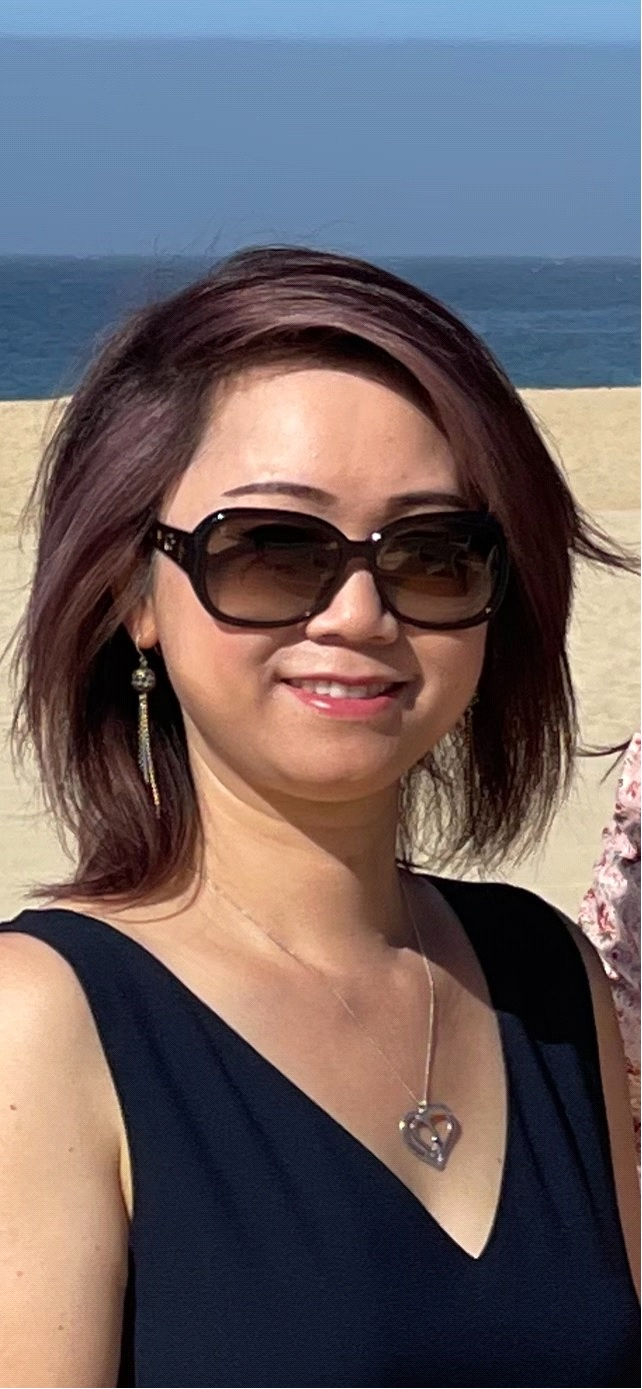
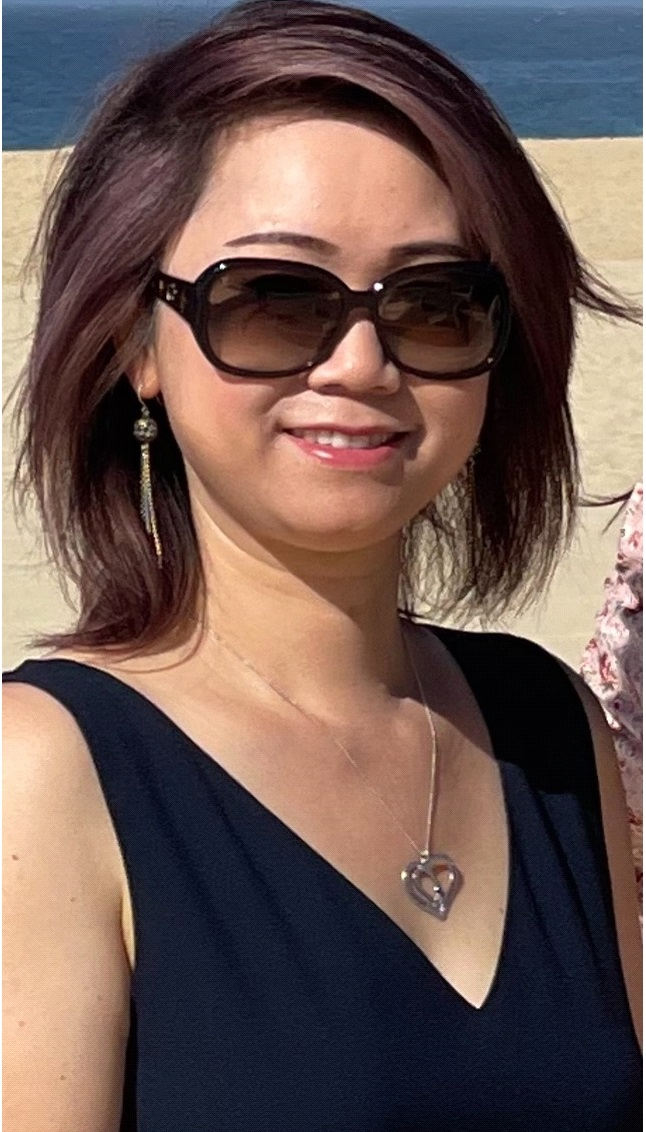
v8

diff --git a/src/pages/AboutStella.tsx b/src/pages/AboutStella.tsx
@@ -21,38 +21,42 @@ const AboutStella: React.FC = () => {
       backgroundImage: `url('/images/bg.jpg')`, // Replace with the path to your background image
       backgroundSize: 'cover',
       backgroundPosition: 'center',
-      minHeight: '100vh', // Ensure the background covers the entire viewport height
+      minHeight: '50vh', // Ensure the background covers the entire viewport height
       padding: '20px', // Optional: Add padding to keep the content within view
     }}
   >
       <Card className={styles.card}  style={{
-        maxWidth: '600px',
+        // maxWidth: '600px',
         height: 'auto',
         display: 'flex',
         alignItems: 'center',
-        backgroundColor: '#ffffff', // Semi-transparent background
+        backgroundColor: 'rgba(0, 0, 0, 0.5)', // Semi-transparent background
         justifyContent: 'center',
         borderRadius: '10px',
         overflow: 'hidden',
         boxShadow: '0 4px 8px rgba(0, 0, 0, 0.2)', // Correct shadow property
         border: '1px solid lightgray', // Gray border color
       }}>
-          <Text  size={1000} style={{ fontWeight: 'bold',fontSize: '4.5em',fontFamily: 'Edwardian Script ITC, cursive', marginBottom: 10 }}>
+          {/* <Text   style={{ fontWeight: 'bold',fontSize: '4.5em',fontFamily: 'Edwardian Script ITC, cursive', marginBottom: 10 }}>
             Stella's Design
+          </Text> */}
+                    <Text style={{color: 'white', fontWeight: 'bold', fontSize: '2.7em',fontFamily: 'Edwardian Script ITC, cursive',marginBottom: 0,backgroundColor: 'rgba(230, 230, 230, 0.1)' }}>
+            Where Style Meets Passion
+          </Text>
+          
+          <Text    style={{color: 'white', fontSize: '1.0em',fontFamily: 'Verdana',marginBottom: 2 ,backgroundColor: 'rgba(230, 230, 230, 0.1)'}}>
+            Stella is a high-end hair designer with over 13 years of professional experience in the beauty industry. Specializing in both modern and classic styles, 
+            she ensures that every client leaves her salon feeling confident and beautiful.
+             Passionate about her craft, Stella remains current with the latest trends and techniques.
           </Text>
           <Image 
             src="/images/stella_profile.jpg" 
             alt="Stella's Profile Picture" 
             width={300} 
-            height={600} 
+            height={540} 
             
           />
-          <Text  size={500} style={{ fontSize: '2em',fontFamily: 'Verdana',marginBottom: 20 }}>
-            Where Style Meets Passion
-          </Text>
-          <Text  size={500}  style={{ fontSize: '1.3em',fontFamily: 'Verdana',marginBottom: 20 ,backgroundColor: '#ffffff'}}>
-            Stella is a high-end hair designer with over 13 years of professional experience in the beauty industry. She specializes in modern and classic styles, ensuring each client leaves her salon feeling confident and beautiful. Passionate about her craft, Stella stays up to date with the latest trends and techniques.
-          </Text>
+
       </Card>
       </div>
   );

diff --git a/src/pages/Home.tsx b/src/pages/Home.tsx
@@ -12,8 +12,8 @@ const Home: React.FC = () => {
         width: '100%',
         height: '100vh', // Full viewport height
         display: 'flex',
-        justifyContent: 'center',
-        alignItems: 'center',
+        // justifyContent: 'center',
+        // alignItems: 'center',
         padding: '20px',
         boxSizing: 'border-box',
       }}
@@ -23,25 +23,25 @@ const Home: React.FC = () => {
       <Card
         style={{
           maxWidth: '1000px',
-          padding: '20px',
+          padding: '2px',
           backgroundColor: 'rgba(0, 0, 0, 0.5)', // Semi-transparent background
           color: '#ffffff', // Adjust text color for contrast
-          textAlign: 'center',
+          // textAlign: 'center',
           borderRadius: '8px',
           boxShadow: '0 4px 8px rgba(0, 0, 0, 0.2)',
-          marginRight: '20px', // Space between text and image
+          // marginRight: '20px', // Space between text and image
         }}
       >
         {/* Welcome Text */}
-        <Text size={600} style={{ fontSize: '2em',fontFamily: 'Verdana',marginBottom: 20 }}>Welcome to Stella's Design</Text>
-        <br />
-        <Text size={300} style={{ fontSize: '1.5em',fontFamily: 'Verdana',marginBottom: 20 }}>Your go-to salon for amazing professional hair designs since 2011.</Text>
-        <br />
-        <Text size={300} style={{ fontSize: '2em',fontFamily: 'Verdana', fontWeight: 'bold', marginTop: '10px' }}>
+        <Text style={{ fontSize: '1.7em',fontFamily: 'Verdana',marginBottom: 0 }}>Welcome to Stella's Design</Text>
+
+        <Text size={300} style={{ fontSize: '1.3em',fontFamily: 'Verdana',marginBottom: 0 }}>Your go-to salon for amazing professional hair designs since 2011.</Text>
+      
+        <Text size={300} style={{ fontSize: '1.6em',fontFamily: 'Verdana', fontWeight: 'bold', marginTop: '10px' }}>
           Grand Opening at our new location: August 19, 2024.
         </Text>
         {/* Contact Details */}
-        <div style={{ marginBottom: '20px' }}>
+        <div >
           <Text size={300}>Phone: 425-737-7342</Text> <br />
 
           <Text size={300}>Hours: Mon-Sat 10:00am-7:00pm</Text> <br />

diff --git a/src/pages/AppointmentForm.tsx b/src/pages/AppointmentForm.tsx
@@ -34,8 +34,8 @@ const AppointmentForm: React.FC = () => {
         padding: '20px', // Optional: Add padding to keep the content within view
         display: 'flex',
         flexDirection: 'column',
-        alignItems: 'center', // Center horizontally
-        justifyContent: 'center', // Center vertically
+        // alignItems: 'center', // Center horizontally
+        // justifyContent: 'center', // Center vertically
       }}
     >
       {/* Title at the top */}
@@ -47,7 +47,7 @@ const AppointmentForm: React.FC = () => {
       }}>
         <Text size={1000} style={{ 
           fontWeight: 'bold',
-          fontSize: '4.5em',
+          fontSize: '1.7em',
           fontFamily: 'Verdana',
           textAlign: 'center',
           color: '#fff', // Optional: Adjust text color for better contrast
